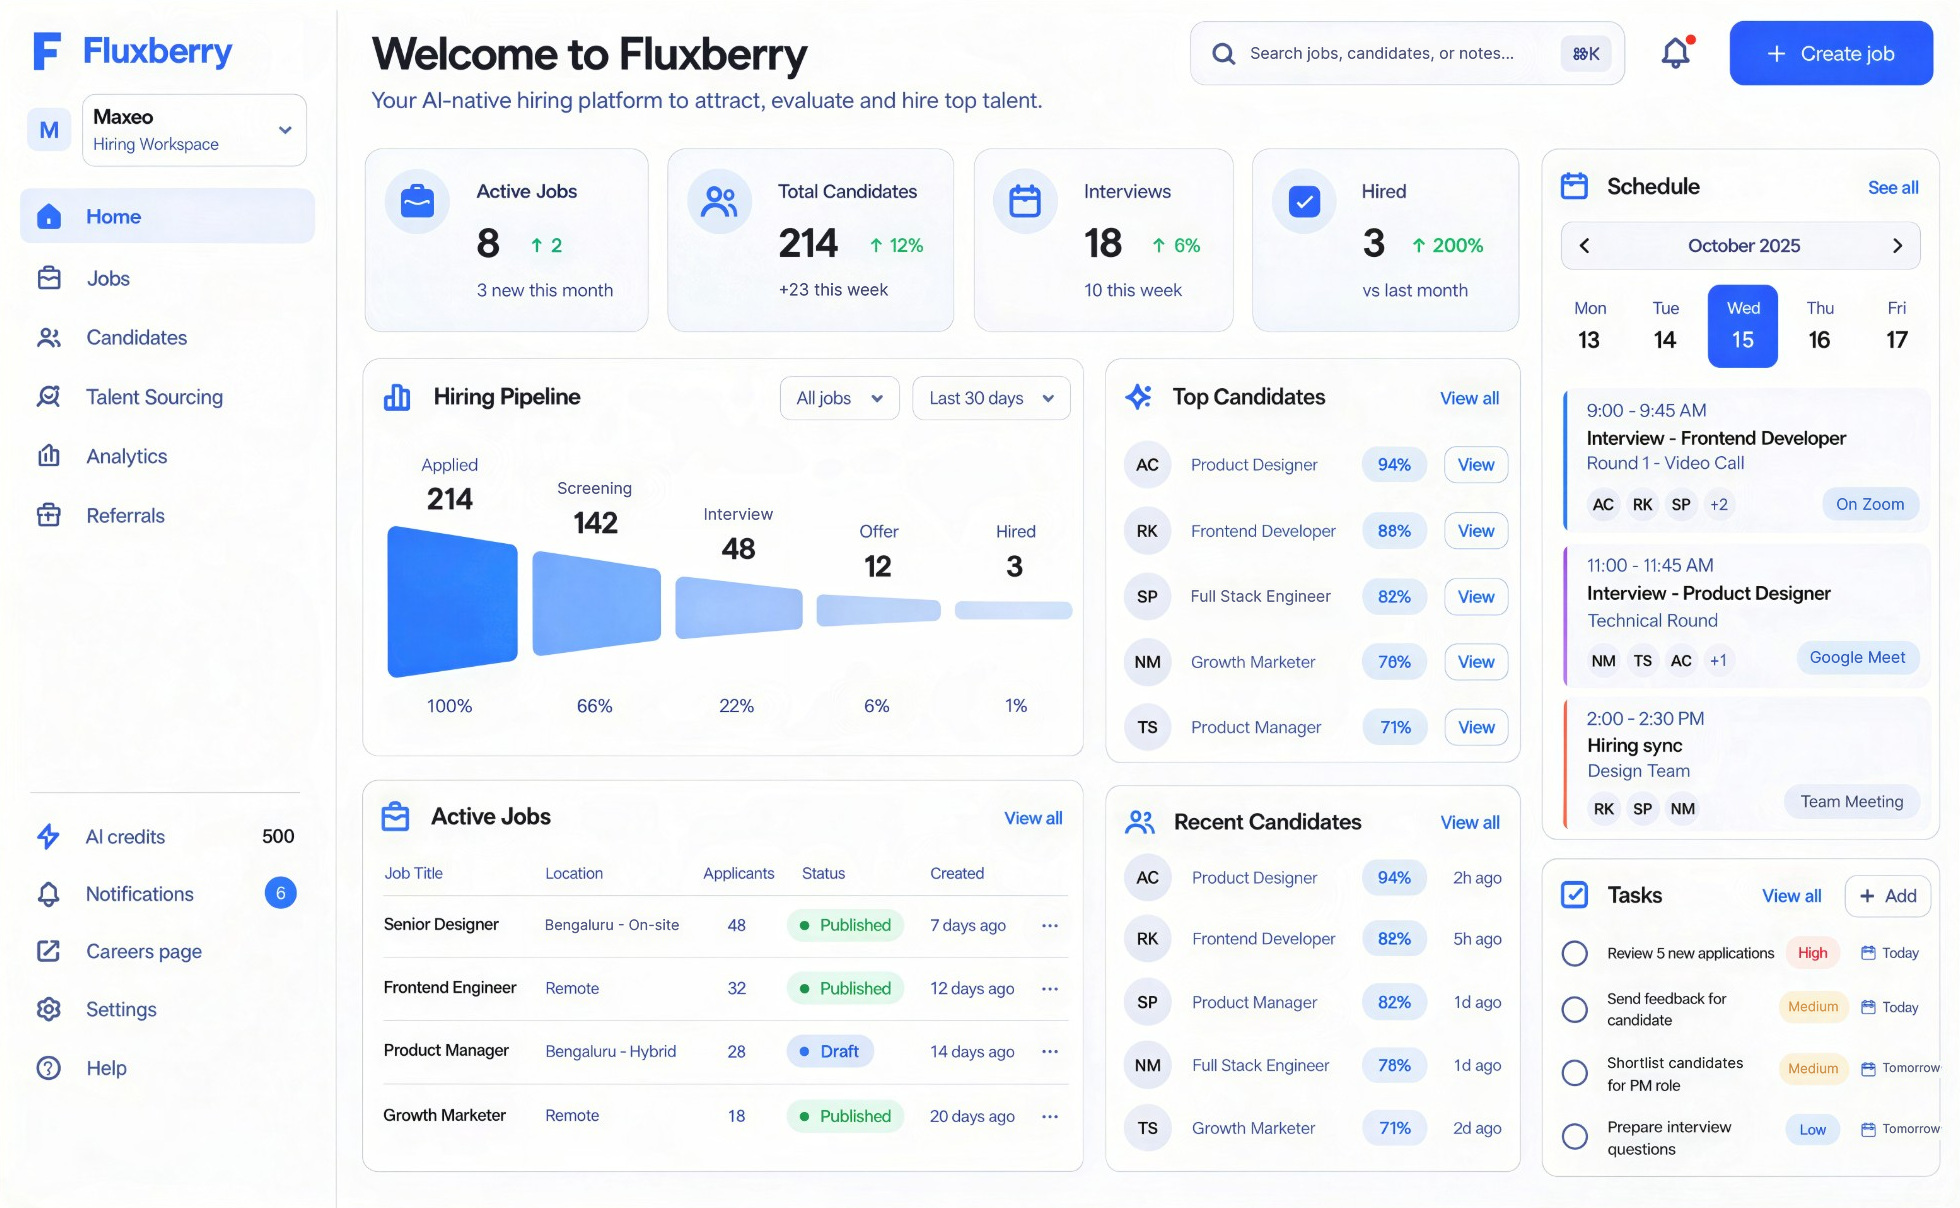
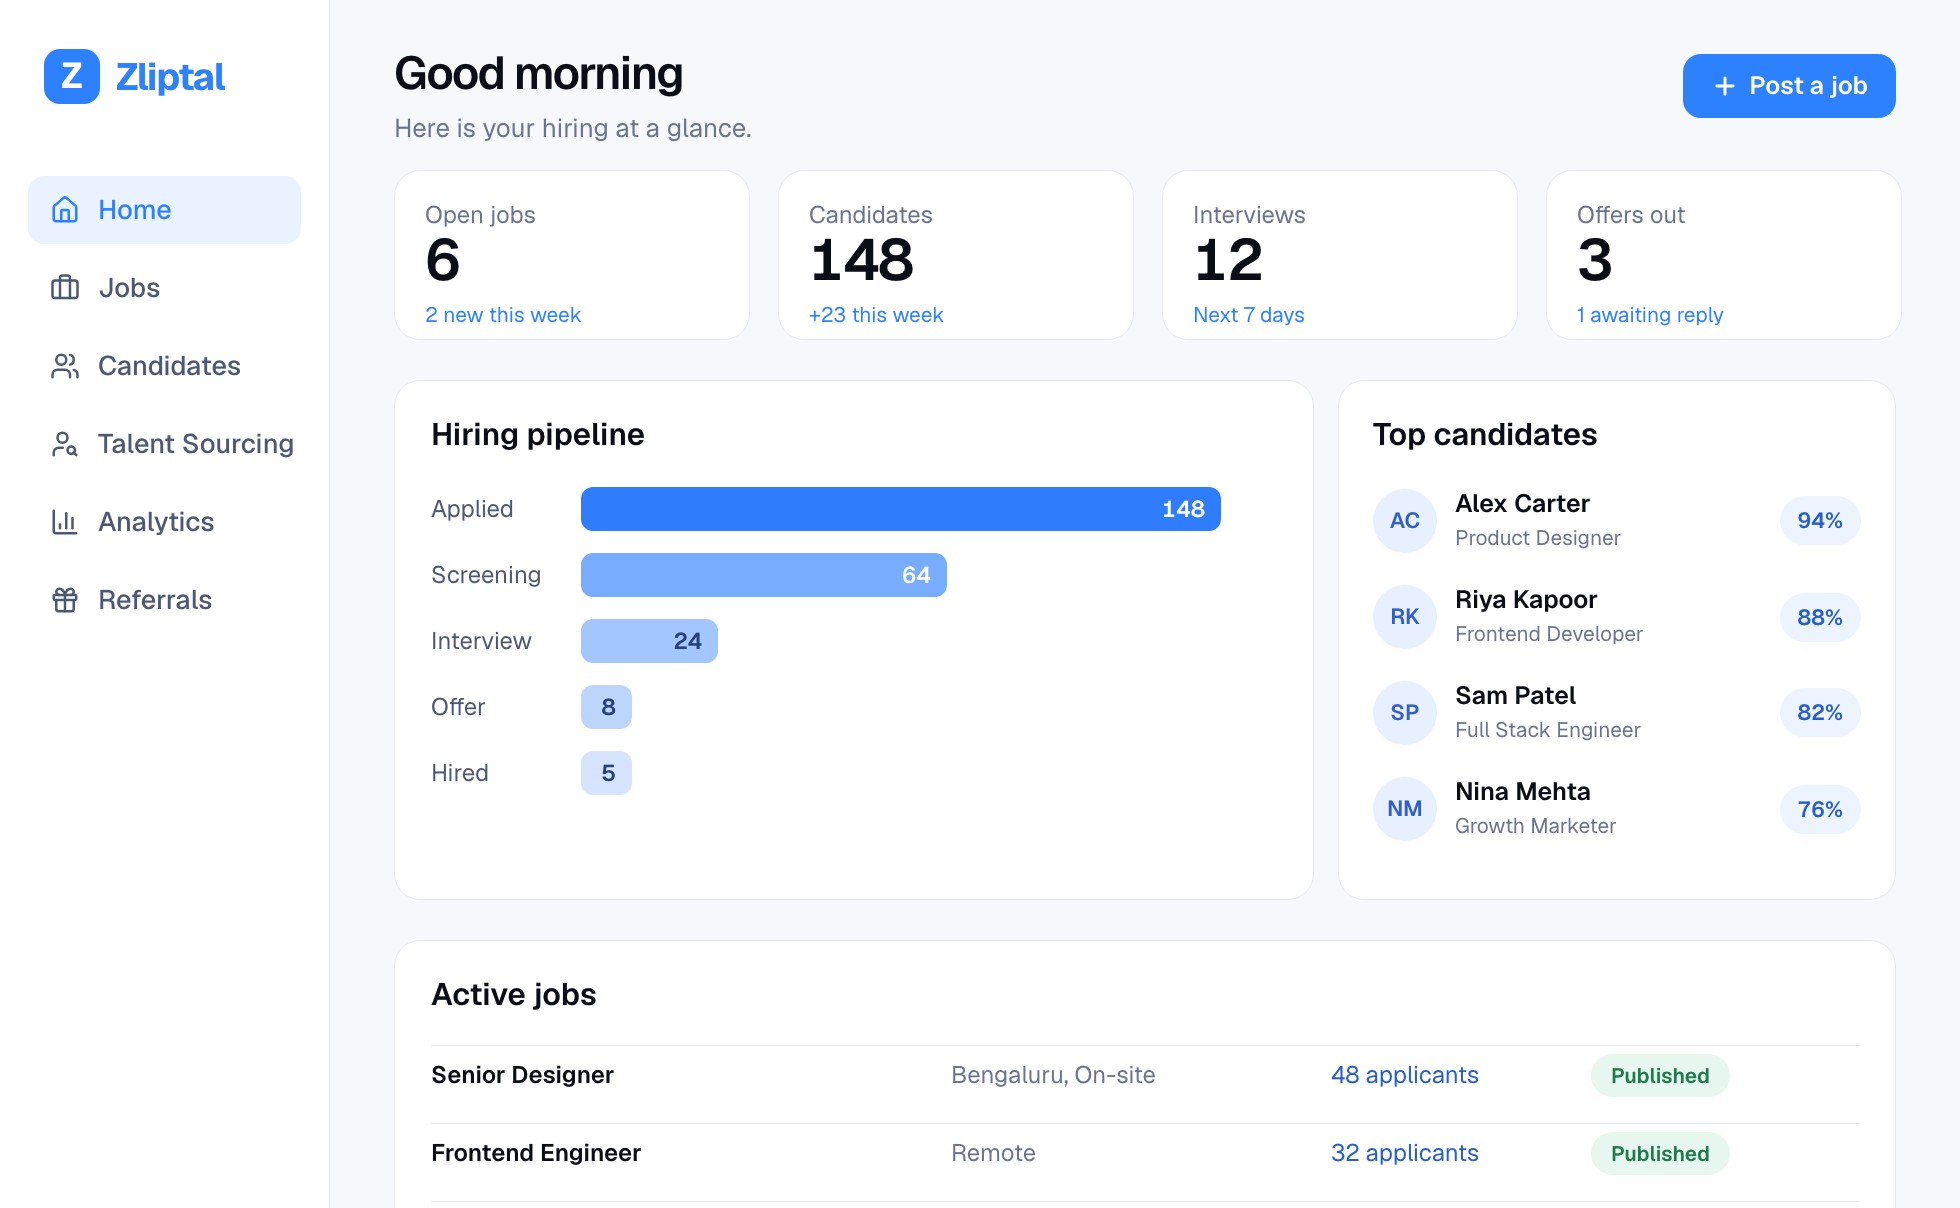
Redesign hero dashboard preview as a simple HR dashboard; refresh auth-page screenshot (#88)
The hero preview is now a clean static view that mirrors the real app: sidebar nav, stat cards, hiring pipeline and top candidates. The sign-in and sign-up pages' dashboard.jpg was still the old Fluxberry mockup; it is re-rendered from the same component.

diff --git a/frontend/components/marketing/landing/hero-dashboard.tsx b/frontend/components/marketing/landing/hero-dashboard.tsx
@@ -1,59 +1,256 @@
+import type { CSSProperties, ReactNode } from 'react';
+import { BarChart3, Briefcase, Gift, Home, Plus, UserSearch, Users } from 'lucide-react';
+
+/*
+ * The hero's product shot: a simple, static HR dashboard that mirrors the real
+ * app (same sidebar, stat cards, pipeline and top candidates). It is drawn on
+ * the hero image's 1960×1208 pixel grid; every size below is in those pixels
+ * and `px()` turns it into a container-width unit so the whole thing scales.
+ * The hero card shows only the top 60% (SHOT_VISIBLE in ./hero), so the
+ * content is laid out to be cut cleanly there.
+ */
+
+const GRID = 1960;
+const px = (n: number) => `${((n / GRID) * 100).toFixed(4)}cqw`;
+
 const BLUE = '#2d81ff';
+const INK = '#0b0d17';
+const MUTED = '#6b7390';
+const LINE = '#e6e9f0';
 
-const STAGES = ['Review', 'Interview', 'Offer'];
+const NAV = [
+  { label: 'Home', icon: Home, active: true },
+  { label: 'Jobs', icon: Briefcase },
+  { label: 'Candidates', icon: Users },
+  { label: 'Talent Sourcing', icon: UserSearch },
+  { label: 'Analytics', icon: BarChart3 },
+  { label: 'Referrals', icon: Gift },
+];
 
-/** A quiet product preview with one pipeline and one candidate. */
+const STATS = [
+  { label: 'Open jobs', value: '6', note: '2 new this week' },
+  { label: 'Candidates', value: '148', note: '+23 this week' },
+  { label: 'Interviews', value: '12', note: 'Next 7 days' },
+  { label: 'Offers out', value: '3', note: '1 awaiting reply' },
+];
+
+const FUNNEL = [
+  { stage: 'Applied', count: 148, color: '#2f7cfc' },
+  { stage: 'Screening', count: 64, color: '#78acff' },
+  { stage: 'Interview', count: 24, color: '#a3c6fe' },
+  { stage: 'Offer', count: 8, color: '#bdd5fb' },
+  { stage: 'Hired', count: 5, color: '#d6e4ff' },
+];
+
+const TOP = [
+  { initials: 'AC', name: 'Alex Carter', role: 'Product Designer', score: 94 },
+  { initials: 'RK', name: 'Riya Kapoor', role: 'Frontend Developer', score: 88 },
+  { initials: 'SP', name: 'Sam Patel', role: 'Full Stack Engineer', score: 82 },
+  { initials: 'NM', name: 'Nina Mehta', role: 'Growth Marketer', score: 76 },
+];
+
+const JOBS = [
+  { title: 'Senior Designer', where: 'Bengaluru, On-site', applicants: 48 },
+  { title: 'Frontend Engineer', where: 'Remote', applicants: 32 },
+  { title: 'Growth Marketer', where: 'Remote', applicants: 18 },
+];
+
+function Card({ style, children }: { style: CSSProperties; children: ReactNode }) {
+  return (
+    <div
+      className="absolute bg-white"
+      style={{ border: `${px(2)} solid ${LINE}`, borderRadius: px(26), ...style }}
+    >
+      {children}
+    </div>
+  );
+}
+
 export function HeroDashboard() {
   return (
-    <div className="absolute inset-0 overflow-hidden bg-[#f7f9fd] font-sans text-[#0b0d17]">
-      <aside className="absolute inset-y-0 left-0 w-[17%] border-r border-[#e6e9f0] bg-[#fbfcff]">
-        <div className="absolute left-[18%] top-[9%] flex items-center gap-[12px]">
-          <span className="flex size-[34px] items-center justify-center rounded-[10px] text-[22px] font-bold text-white" style={{ backgroundColor: BLUE }}>
+    <div
+      className="absolute inset-0 overflow-hidden bg-[#f6f8fc] font-sans"
+      style={{ containerType: 'inline-size', color: INK }}
+    >
+      {/* Sidebar */}
+      <aside
+        className="absolute inset-y-0 left-0 bg-white"
+        style={{ width: px(330), borderRight: `${px(2)} solid ${LINE}` }}
+      >
+        <div className="absolute flex items-center" style={{ left: px(44), top: px(48), gap: px(16) }}>
+          <span
+            className="flex items-center justify-center font-bold text-white"
+            style={{ width: px(56), height: px(56), borderRadius: px(16), fontSize: px(36), backgroundColor: BLUE }}
+          >
             Z
           </span>
-          <span className="text-[25px] font-bold tracking-[-0.04em]" style={{ color: BLUE }}>
+          <span className="font-bold" style={{ fontSize: px(38), letterSpacing: '-0.04em', color: BLUE }}>
             Zliptal
           </span>
         </div>
-        <div className="absolute left-[24%] top-[27%] flex flex-col gap-[30px]" aria-hidden>
-          <span className="size-[22px] rounded-[7px] bg-[#dce8ff]" />
-          <span className="size-[22px] rounded-full bg-[#edf1f8]" />
-          <span className="size-[22px] rounded-full bg-[#edf1f8]" />
-        </div>
-      </aside>
-
-      <main className="absolute bottom-[13%] left-[20%] right-[5%] top-[9%] rounded-[24px] border border-[#e6e9f0] bg-white px-[4%] py-[3.5%] shadow-[0_20px_54px_-34px_rgba(15,35,82,0.24)]">
-        <div className="flex items-center justify-between">
-          <h2 className="text-[36px] font-semibold tracking-[-0.035em]">Hiring pipeline</h2>
-          <span className="size-[12px] rounded-full bg-[#5c9bff]" aria-hidden />
-        </div>
-
-        <div className="relative mt-[72px] flex items-center justify-between">
-          <span className="absolute left-[8%] right-[8%] top-1/2 h-[3px] -translate-y-1/2 rounded-full bg-[#e8edf5]" aria-hidden />
-          {STAGES.map((stage, index) => (
-            <div key={stage} className="relative flex items-center gap-[14px] bg-white pr-[14px]">
-              <span
-                className="size-[18px] rounded-full ring-[6px] ring-white"
-                style={{ backgroundColor: index === 0 ? BLUE : '#d6deed' }}
-                aria-hidden
-              />
-              <span className="text-[21px] font-medium text-[#4e5875]">{stage}</span>
+        <nav className="absolute flex flex-col" style={{ left: px(28), right: px(28), top: px(176), gap: px(10) }}>
+          {NAV.map(({ label, icon: Icon, active }) => (
+            <div
+              key={label}
+              className="flex items-center font-medium"
+              style={{
+                height: px(68),
+                gap: px(18),
+                paddingLeft: px(22),
+                borderRadius: px(16),
+                fontSize: px(27),
+                color: active ? BLUE : '#4e5875',
+                backgroundColor: active ? '#eaf2ff' : 'transparent',
+              }}
+            >
+              <Icon style={{ width: px(30), height: px(30) }} strokeWidth={2} aria-hidden />
+              {label}
             </div>
           ))}
-        </div>
+        </nav>
+      </aside>
 
-        <div className="mt-[68px] flex items-center gap-[20px] rounded-[18px] border border-[#edf0f5] bg-[#fcfdff] px-[24px] py-[20px]">
-          <span className="flex size-[58px] shrink-0 items-center justify-center rounded-full bg-[#e8efff] text-[18px] font-semibold text-[#315fc7]">MC</span>
-          <div className="min-w-0">
-            <p className="truncate text-[22px] font-semibold">Maya Chen</p>
-            <p className="mt-[5px] text-[18px] text-[#6b7390]">Product Designer</p>
+      {/* Header */}
+      <div className="absolute" style={{ left: px(394), top: px(48) }}>
+        <p className="font-semibold" style={{ fontSize: px(46), letterSpacing: '-0.035em', lineHeight: 1.1 }}>
+          Good morning
+        </p>
+        <p style={{ marginTop: px(10), fontSize: px(26), color: MUTED }}>Here is your hiring at a glance.</p>
+      </div>
+      <div
+        className="absolute flex items-center font-semibold text-white"
+        style={{
+          right: px(64),
+          top: px(54),
+          height: px(64),
+          gap: px(10),
+          padding: `0 ${px(28)}`,
+          borderRadius: px(18),
+          fontSize: px(25),
+          backgroundColor: BLUE,
+        }}
+      >
+        <Plus style={{ width: px(28), height: px(28) }} strokeWidth={2.5} aria-hidden />
+        Post a job
+      </div>
+
+      {/* Stat cards */}
+      {STATS.map((s, i) => (
+        <Card
+          key={s.label}
+          style={{ left: px(394 + i * 384), top: px(170), width: px(356), height: px(170) }}
+        >
+          <p className="absolute" style={{ left: px(30), top: px(26), fontSize: px(24), color: MUTED }}>
+            {s.label}
+          </p>
+          <p
+            className="absolute font-semibold tabular-nums"
+            style={{ left: px(30), top: px(60), fontSize: px(58), letterSpacing: '-0.03em', lineHeight: 1 }}
+          >
+            {s.value}
+          </p>
+          <p className="absolute" style={{ left: px(30), top: px(128), fontSize: px(21), color: BLUE }}>
+            {s.note}
+          </p>
+        </Card>
+      ))}
+
+      {/* Pipeline funnel */}
+      <Card style={{ left: px(394), top: px(380), width: px(920), height: px(520) }}>
+        <p className="absolute font-semibold" style={{ left: px(36), top: px(30), fontSize: px(31) }}>
+          Hiring pipeline
+        </p>
+        {FUNNEL.map((f, i) => (
+          <div
+            key={f.stage}
+            className="absolute flex items-center"
+            style={{ left: px(36), right: px(36), top: px(106 + i * 66), height: px(44) }}
+          >
+            <span style={{ width: px(150), fontSize: px(24), color: '#4e5875' }}>{f.stage}</span>
+            <span
+              className="flex items-center justify-end font-semibold tabular-nums"
+              style={{
+                width: `${Math.max((f.count / 148) * 100, 6)}%`,
+                maxWidth: px(640),
+                height: px(44),
+                borderRadius: px(12),
+                paddingRight: px(16),
+                fontSize: px(23),
+                backgroundColor: f.color,
+                color: i < 2 ? '#fff' : '#27407a',
+              }}
+            >
+              {f.count}
+            </span>
           </div>
-          <div className="ml-auto flex items-center gap-[14px] rounded-full bg-[#edf4ff] px-[17px] py-[10px] text-[19px] font-semibold text-[#285ec8]">
-            <span className="size-[8px] rounded-full bg-[#4d8bff]" aria-hidden />
-            94% match
+        ))}
+      </Card>
+
+      {/* Active jobs: below the hero's cut, so only the static image (auth pages) shows it. */}
+      <Card style={{ left: px(394), top: px(940), width: px(1502), height: px(400) }}>
+        <p className="absolute font-semibold" style={{ left: px(36), top: px(30), fontSize: px(31) }}>
+          Active jobs
+        </p>
+        {JOBS.map((j, i) => (
+          <div
+            key={j.title}
+            className="absolute flex items-center"
+            style={{
+              left: px(36),
+              right: px(36),
+              top: px(104 + i * 78),
+              height: px(60),
+              borderTop: `${px(2)} solid ${LINE}`,
+              fontSize: px(24),
+            }}
+          >
+            <span className="font-semibold" style={{ width: px(520) }}>{j.title}</span>
+            <span style={{ width: px(380), color: MUTED }}>{j.where}</span>
+            <span className="tabular-nums" style={{ width: px(260), color: '#285ec8' }}>{j.applicants} applicants</span>
+            <span
+              className="rounded-full font-semibold"
+              style={{ padding: `${px(6)} ${px(20)}`, fontSize: px(21), backgroundColor: '#e7f6ee', color: '#1f7a4d' }}
+            >
+              Published
+            </span>
           </div>
-        </div>
-      </main>
+        ))}
+      </Card>
+
+      {/* Top candidates */}
+      <Card style={{ left: px(1338), top: px(380), width: px(558), height: px(520) }}>
+        <p className="absolute font-semibold" style={{ left: px(34), top: px(30), fontSize: px(31) }}>
+          Top candidates
+        </p>
+        {TOP.map((c, i) => (
+          <div
+            key={c.name}
+            className="absolute flex items-center"
+            style={{ left: px(34), right: px(34), top: px(104 + i * 96), height: px(72), gap: px(18) }}
+          >
+            <span
+              className="flex shrink-0 items-center justify-center rounded-full font-semibold"
+              style={{ width: px(64), height: px(64), fontSize: px(22), backgroundColor: '#e8efff', color: '#315fc7' }}
+            >
+              {c.initials}
+            </span>
+            <div className="min-w-0">
+              <p className="truncate font-semibold" style={{ fontSize: px(25), lineHeight: 1.15 }}>
+                {c.name}
+              </p>
+              <p className="truncate" style={{ marginTop: px(4), fontSize: px(21), color: MUTED }}>
+                {c.role}
+              </p>
+            </div>
+            <span
+              className="ml-auto shrink-0 rounded-full font-semibold tabular-nums"
+              style={{ padding: `${px(8)} ${px(18)}`, fontSize: px(22), backgroundColor: '#edf4ff', color: '#285ec8' }}
+            >
+              {c.score}%
+            </span>
+          </div>
+        ))}
+      </Card>
     </div>
   );
 }
